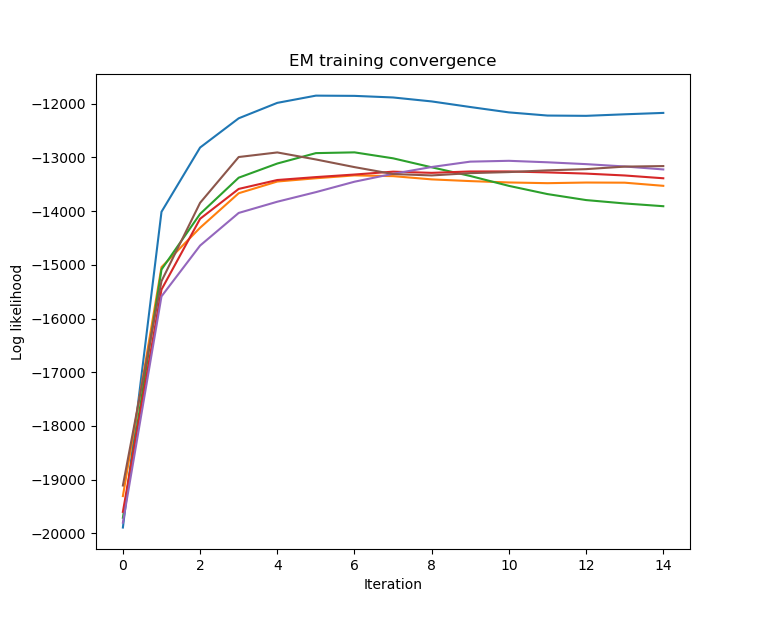
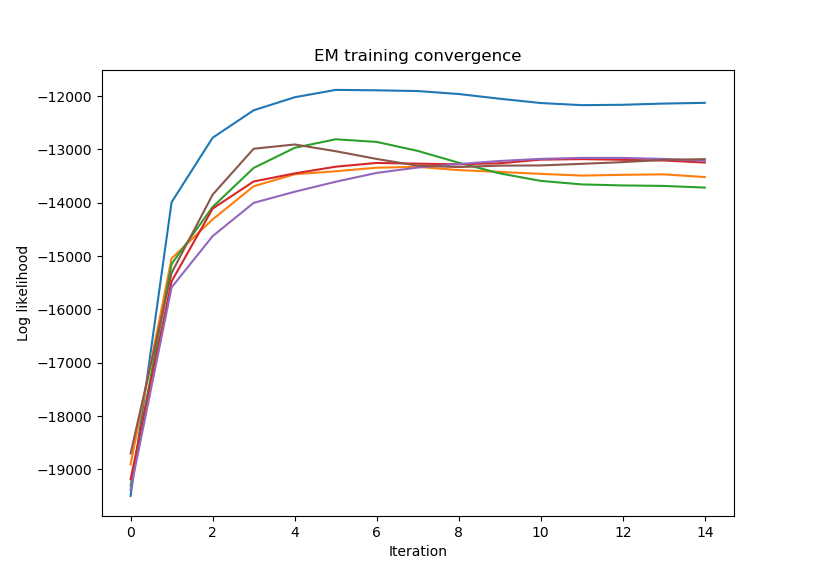
Just some minor updates.

diff --git a/odessaRun.py b/odessaRun.py
@@ -25,7 +25,8 @@ def recordAudio(frameSize, skipSize, numCoef):
     myrec = sd.rec(int(duration * fs), samplerate=fs, channels=CHANNELS)
     sd.wait()
     print('Recording stop')
-    #sd.playrec(myrec, fs, channels=CHANNELS)
+    sd.playrec(myrec, fs, channels=CHANNELS)
+    sd.wait()
     mfcc = odessa.mfcc.getMfcc(np.reshape(myrec, len(myrec)), fs, frameSize, skipSize, numCoef)
     return mfcc
 

diff --git a/audio.py b/audio.py
@@ -11,8 +11,7 @@ myrec = sd.rec(int(duration * fs), samplerate=fs, channels=CHANNELS)
 sd.wait()
 print('Recording stop')
 
-#filename = 'audio/WhatTimeIsIt/WhatTimeIsIt20.wav'
-filename = 'test.wav'
+filename = 'audio/WhatTimeIsIt/WhatTimeIsIt10.wav'
 
 scipy.io.wavfile.write(filename,fs,myrec)
 

diff --git a/odessaTrain.py b/odessaTrain.py
@@ -93,3 +93,6 @@ if __name__ == "__main__":
     plt.plot(TurnOffTheLightsConv)
     plt.plot(TurnOnTheLightsConv)
     plt.plot(WhatTimeIsItConv)
+    plt.title('EM training convergence')
+    plt.xlabel('Iteration')
+    plt.ylabel('Log likelihood')
